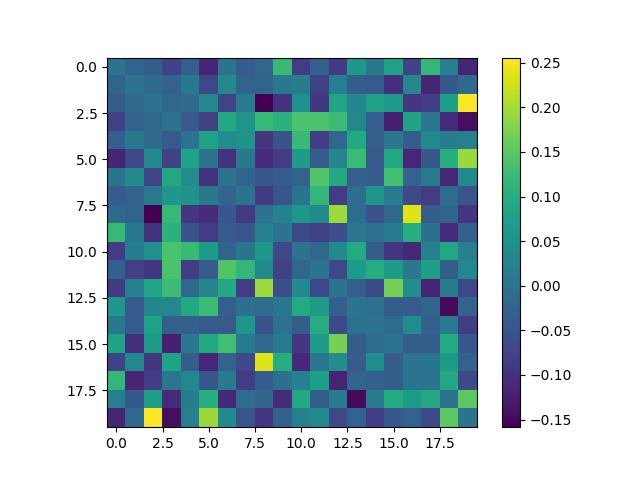
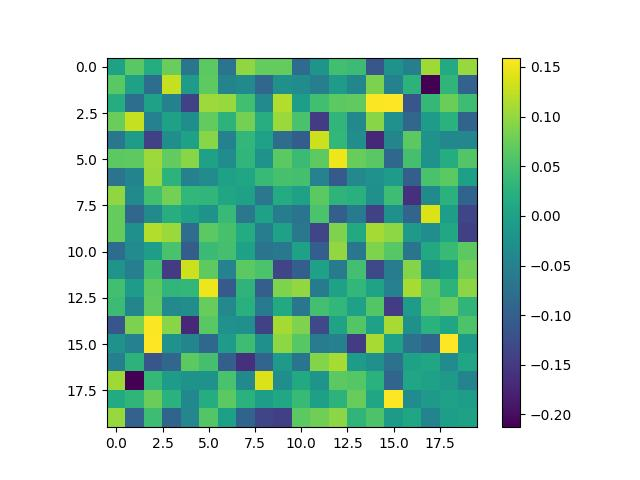
adding minmal

diff --git a/minimal_isc.py b/minimal_isc.py
@@ -1,0 +1,41 @@
+from brainiak.isc import isc, bootstrap_isc
+import numpy as np
+from matplotlib import pyplot as plt
+from scipy.spatial.distance import squareform
+from brainiak.utils.utils import (array_correlation,
+                                  phase_randomize,
+                                  p_from_null,
+                                  _check_timeseries_input)
+
+import scipy
+
+ntp = 200   # number of timepoints
+nsubj = 20  # number of subjects
+nsim = 200  # number of simulations
+nvox = 10 # number of voxels
+alpha = 0.05    # expected false positive level
+
+allp_sw = []  # subject-wise
+allci_sw = []
+allp_ew = []  # element-wise
+allci_ew = []
+
+for simind in range(nsim):
+    y = np.random.randn(ntp, nvox, nsubj)  # no signal, just null distribution
+    simisc = isc(y, pairwise=True)  # get isc matrix
+
+    # subject-wise
+    observed, ci, p, distribution = bootstrap_isc(
+        simisc, pairwise=True, n_bootstraps=200)
+    allp_sw.extend(p)
+
+    # element-wise
+    observed, ci, p, distribution = bootstrap_isc(
+        simisc, pairwise=False, n_bootstraps=200)
+    allp_ew.extend(p)
+
+print(f'SW false positive rate (alpha={alpha}) {np.mean(np.array(allp_sw)<alpha)}')
+print(f'EW false positive rate (alpha={alpha}) {np.mean(np.array(allp_ew)<alpha)}')
+
+# print(allp)
+a = 1

diff --git a/sim_isc.py b/sim_isc.py
@@ -15,7 +15,7 @@ nsim = 200
 
 amp_sig = 0
 amp_noise_mean = 2
-amp_noise_std = 1
+amp_noise_std = 0
 
 
 # Noise
@@ -37,21 +37,9 @@ for simind in range(nsim):
         plt.savefig('exampleisc.jpg')
     
     observed, ci, p, distribution = bootstrap_isc(simisc, pairwise=True, n_bootstraps=200 )
-    # # Get p-value for actual median from *NOT* shifted distribution
-    # shifted = distribution - observed
-    # p = p_from_null(observed, shifted,
-    #                 side='right', exact=True,
-    #                 axis=0)
-
     allp_sw.extend( p)
 
     observed, ci, p, distribution = bootstrap_isc(simisc, pairwise=False, n_bootstraps=200)
-    # # Get p-value for actual median from *NOT* shifted distribution
-    # shifted = distribution - observed
-    # p = p_from_null(observed, shifted,
-    #                 side='right', exact=True,
-    #                 axis=0)
-
     allp_ew.extend( p)
 
 fig, ax = plt.subplots(nrows=2)
